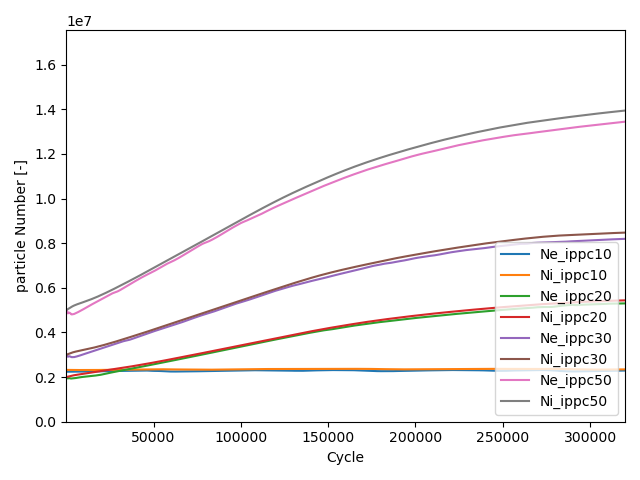
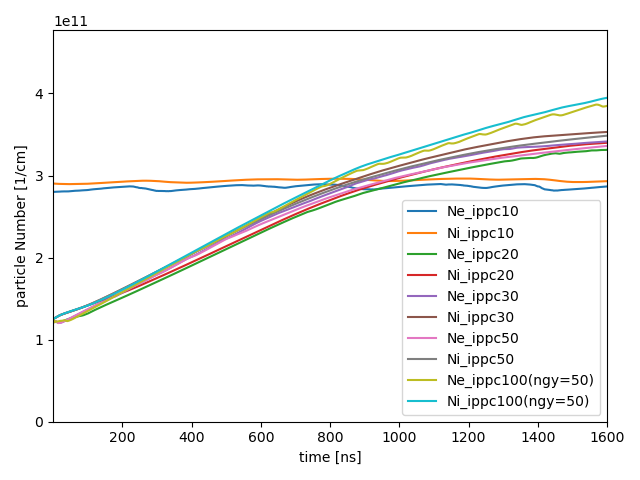
Update README.md

diff --git a/tools/parseXML.py b/tools/parseXML.py
@@ -40,14 +40,14 @@ def parseXML(xml_file, section_name, tag_name):
 
     return cycle_ids, values
 
-def plot_values(cycles, arr_values, labels, title="", scale=1.0):
+def plot_values(cycles, arr_values, labels, scales, title="", xscale=1.0):
     plt.figure()
-    for values, label_values in zip(arr_values, labels):
-        plt.plot(cycles, [val*scale for val in values], label=label_values)
+    for values, label_values, scale in zip(arr_values, labels, scales):
+        plt.plot([cyc*xscale for cyc in cycles], [val*scale for val in values], label=label_values)
     plt.legend(loc='lower right')
     plt.margins(x=0.0, y=0.30)
     plt.ylabel(title)
-    plt.xlabel('Cycle')
+    plt.xlabel('time [ns]')
     # plt.xlim(left=0)
     plt.ylim(bottom=0)
     plt.tight_layout()
@@ -63,6 +63,9 @@ if __name__ == '__main__':
     cycles, Ni_large2 = parseXML('large2_20250623042317_log.xml', 'flowout_ion_Xe1', 'particleNumber')
     cycles, Ne_large3 = parseXML('large3_20250624212336_log.xml', 'flowout_electron', 'particleNumber')
     cycles, Ni_large3 = parseXML('large3_20250624212336_log.xml', 'flowout_ion_Xe1', 'particleNumber')
-    values = [Ne_long[0:cycle], Ni_long[0:cycle], Ne_large[0:cycle], Ni_large[0:cycle], Ne_large2[0:cycle], Ni_large2[0:cycle], Ne_large3[0:cycle], Ni_large3[0:cycle]]
-    labels = ["Ne_ippc10", "Ni_ippc10", "Ne_ippc20", "Ni_ippc20", "Ne_ippc30", "Ni_ippc30", "Ne_ippc50", "Ni_ippc50"]
-    plot_values(cycles[0:cycle], values, labels, "particle Number [-]", 1)
+    cycles, Ne_large4 = parseXML('large4_20250626124908_log.xml', 'flowout_electron', 'particleNumber')
+    cycles, Ni_large4 = parseXML('large4_20250626124908_log.xml', 'flowout_ion_Xe1', 'particleNumber')
+    values = [Ne_long[0:cycle], Ni_long[0:cycle], Ne_large[0:cycle], Ni_large[0:cycle], Ne_large2[0:cycle], Ni_large2[0:cycle], Ne_large3[0:cycle], Ni_large3[0:cycle], Ne_large4[0:cycle], Ni_large4[0:cycle]]
+    labels = ["Ne_ippc10", "Ni_ippc10", "Ne_ippc20", "Ni_ippc20", "Ne_ippc30", "Ni_ippc30", "Ne_ippc50", "Ni_ippc50", "Ne_ippc100(ngy=50)", "Ni_ippc100(ngy=50)"]
+    scales = [12.5e4, 12.5e4, 6.25e4, 6.25e4, 4.166667e4, 4.166667e4, 2.5e4, 2.5e4, 1.25e4*4, 1.25e4*4]
+    plot_values(cycles[0:cycle], values, labels, scales, "particle Number [1/cm]", 5e-3)
